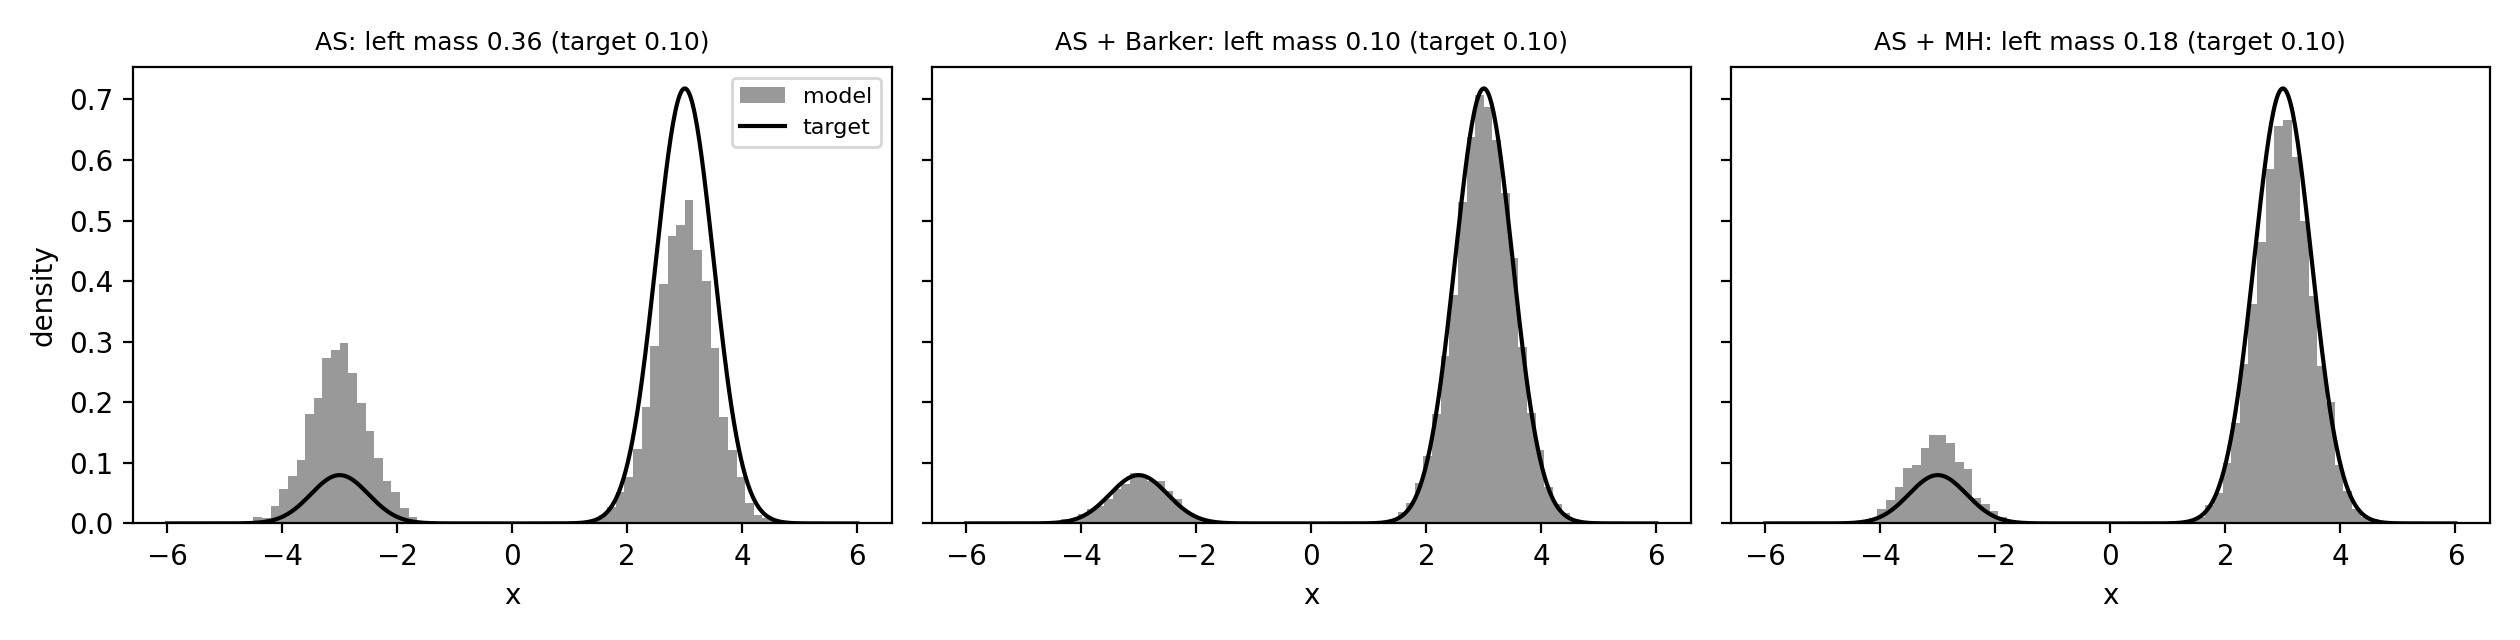
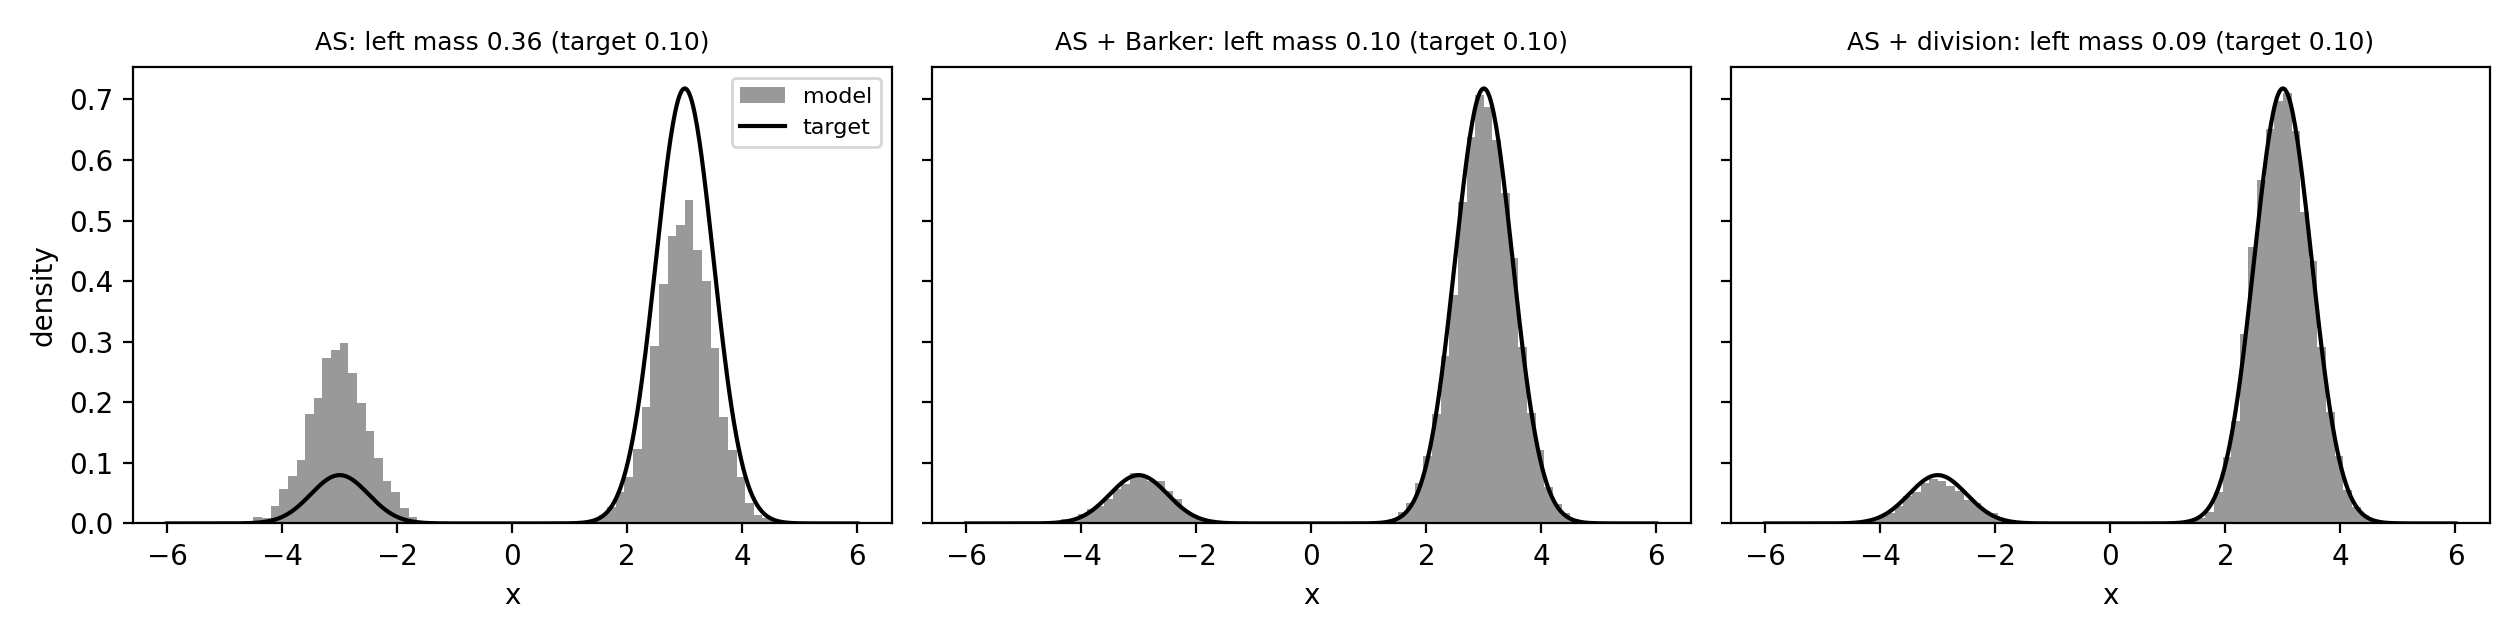
1D demo with the division control variate (left mass 0.108 +- 0.011 vs AS 0.483 +- 0.056 and Barker 0.090 +- 0.007); figures now AS / Barker / division; MH kept in RESULTS

diff --git a/scripts/plot_demo1d.py b/scripts/plot_demo1d.py
@@ -15,7 +15,7 @@ sys.path.insert(0, str(Path(__file__).resolve().parents[1]))
 from adjoint_samplers.utils.dist_utils import GMM1D  # noqa: E402
 
 ROOT = Path(__file__).resolve().parents[1] / "results" / "demo1d"
-LABEL = {"demo_as": "AS", "demo_as_barker": "AS + Barker", "demo_as_mh": "AS + MH"}
+LABEL = {"demo_as": "AS", "demo_as_barker": "AS + Barker", "demo_as_division": "AS + division", "demo_as_mh": "AS + MH"}
 
 
 def evals(run):
@@ -31,7 +31,7 @@ def evals(run):
 
 def main():
     ap = argparse.ArgumentParser()
-    ap.add_argument("--runs", nargs="+", default=["demo_as", "demo_as_barker", "demo_as_mh"])
+    ap.add_argument("--runs", nargs="+", default=["demo_as", "demo_as_barker", "demo_as_division"])
     ap.add_argument("--seed", type=int, default=0)
     a = ap.parse_args()
     g = GMM1D()

diff --git a/RESULTS.md b/RESULTS.md
@@ -316,3 +316,8 @@ W&B already had the plain-AS runs of this demo (project `adjoint_sampler_cv`: `d
 - **Results** (left-mode mass; evaluation at epoch 0 is the untrained model, 0.52 for all): the last 5 evaluations (epochs 500-900), mean +- SE over the evaluations (serially correlated, so optimistic): **AS 0.483 +- 0.056**, **AS + Barker 0.090 +- 0.007**, **AS + MH 0.122 +- 0.009**; final 10 000 samples: AS 0.362, Barker 0.104, MH 0.176. Evaluations of AS: 0.52, 0.72, 0.69, 0.70, 0.60, 0.66, 0.51, 0.43, 0.50, 0.32; Barker from epoch 100: 0.11, 0.09, 0.11, 0.13, 0.08, 0.08, 0.10, 0.08, 0.11; MH: 0.10, 0.11, 0.06, 0.10, 0.15, 0.13, 0.12, 0.11, 0.10.
 - **Reading:** plain AS keeps 32-72 % of the mass on the mode whose weight is 10 % (W&B runs: 41-64 %), Barker brings it to the target within about 100 epochs and stays there; MH is close (about 0.12, slightly above). One seed, 1000 epochs.
 - **Deviations to report:** (1) 1000 epochs instead of the configs' 2000 / 6000; (2) `eval_utils.fig2img` was patched for matplotlib 3.10 (`tostring_rgb` removed; same image from `buffer_rgba`); (3) the evaluation metrics are printed by the runs but not kept in `train.log` (wandb off): the left-mass series of `leftmass_evals.json` were copied from the console output of the runs (AS: typed from the output of this session; Barker and MH: parsed from the saved task outputs); (4) wall time of the Barker and MH runs was longer than their CPU time (the machine was shared); (5) one seed.
+
+- **1D demo, same re-run with the DIVISION control variate instead of MH (requested; `configs/experiment/demo_as_division.yaml`, matcher defaults of `adjoint_ve_division.yaml`: gamma 1, shrink 0.8, refresh every 5, kappa_max 0.99, min_buffer 2000, no tuning for this target; seed 0, 1000 epochs, CPU, 0.5 s per epoch, 9 min).**
+  Left-mode mass (target 0.1), same protocol as above: evaluations every 100 epochs 0.52 (epoch 0, untrained), 0.073, 0.054, 0.073, 0.106, 0.150, 0.093, 0.101, 0.114, 0.086; last 5 evaluations (epochs 500-900): **0.108 +- 0.011** (AS 0.483 +- 0.056, Barker 0.090 +- 0.007); final 10 000 samples: **0.093** (AS 0.362, Barker 0.104). The MH run above stays reported (0.122 +- 0.009), it is not in the figures any more: `figures/demo1d_hist.png` and `figures/demo1d_leftmass.png` now show AS, AS + Barker and AS + division.
+  Check of what the division term has in this 1D case (`fit_modes` on the final samples of the plain-AS run): 2 modes found, centres -3.00003 and 2.99999, variances 0.25000 and 0.25000, softmax(-L) = 0.09999999 / 0.9000000 against the true weights 0.1 / 0.9: the fitted parameters are exact here, so this is the best case of the method (the masses L are exact), not a test of its robustness to mass errors.
+  Same deviations as above (1000 epochs; the evaluation series are copied from the console output, `figures/demo1d_leftmass_evals.json`; one seed).

diff --git a/INDEX.md b/INDEX.md
@@ -10,7 +10,7 @@ Conventions de travail : règles pré-enregistrées dans l'en-tête du script ou
 |---|---|---|---|
 | GMM isotrope (d = 24, 36) | Barker (orbite, γ = 3, centres par seuil) | **Marche** : −86 % (d = 24, 0,235 → 0,034) et −68 % (d = 36, 0,351 → 0,112) sur mean\|log R̄\|, 3 graines, meilleur à chaque graine | RESULTS §1 |
 | GMM isotrope d = 36, graine 0 | Division (Gelfand-Dey) | Égale Barker : 0,106 contre 0,117 (AS 0,389) ; pas de succès au seuil fixé (0,058). Un premier run avait échoué (NaN à t = 0 exactement, corrigé) | RESULTS §5 |
-| GMM 1D à deux modes (poids 0,1 / 0,9) | AS contre AS + Barker / MH (relance locale, 1000 époques, graine 0) | AS garde 0,48 de masse sur le mode de poids 0,1 (W&B : 0,41 à 0,64) ; Barker 0,09, MH 0,12 : cible atteinte en ~100 époques | RESULTS §« Démo 1D à deux modes », `figures/demo1d_*.png` |
+| GMM 1D à deux modes (poids 0,1 / 0,9) | AS contre AS + Barker, + division (et + MH) (relance locale, 1000 époques, graine 0) | AS garde 0,48 de masse sur le mode de poids 0,1 (W&B : 0,41 à 0,64) ; Barker 0,09, division 0,11, MH 0,12 : cible atteinte en ~100 époques ; les paramètres de la division y sont exacts (meilleur cas) | RESULTS §« Démo 1D à deux modes », `figures/demo1d_*.png` |
 | GMM isotrope | Division : robustesse aux masses | Positif : une erreur de ±0,5 nat sur les masses garde la direction de la correction (cos_corr 0,90 à 0,97) | RESULTS §5 |
 | GMM hétérogène | Barker | Aucune géométrie informative : abandonné | RESULTS §2 |
 | ManyWell-32 | Barker | Fermé : AS ne visite pas les puits légers de la moitié des coordonnées, Barker ne l'améliore pas | RESULTS §3 |
